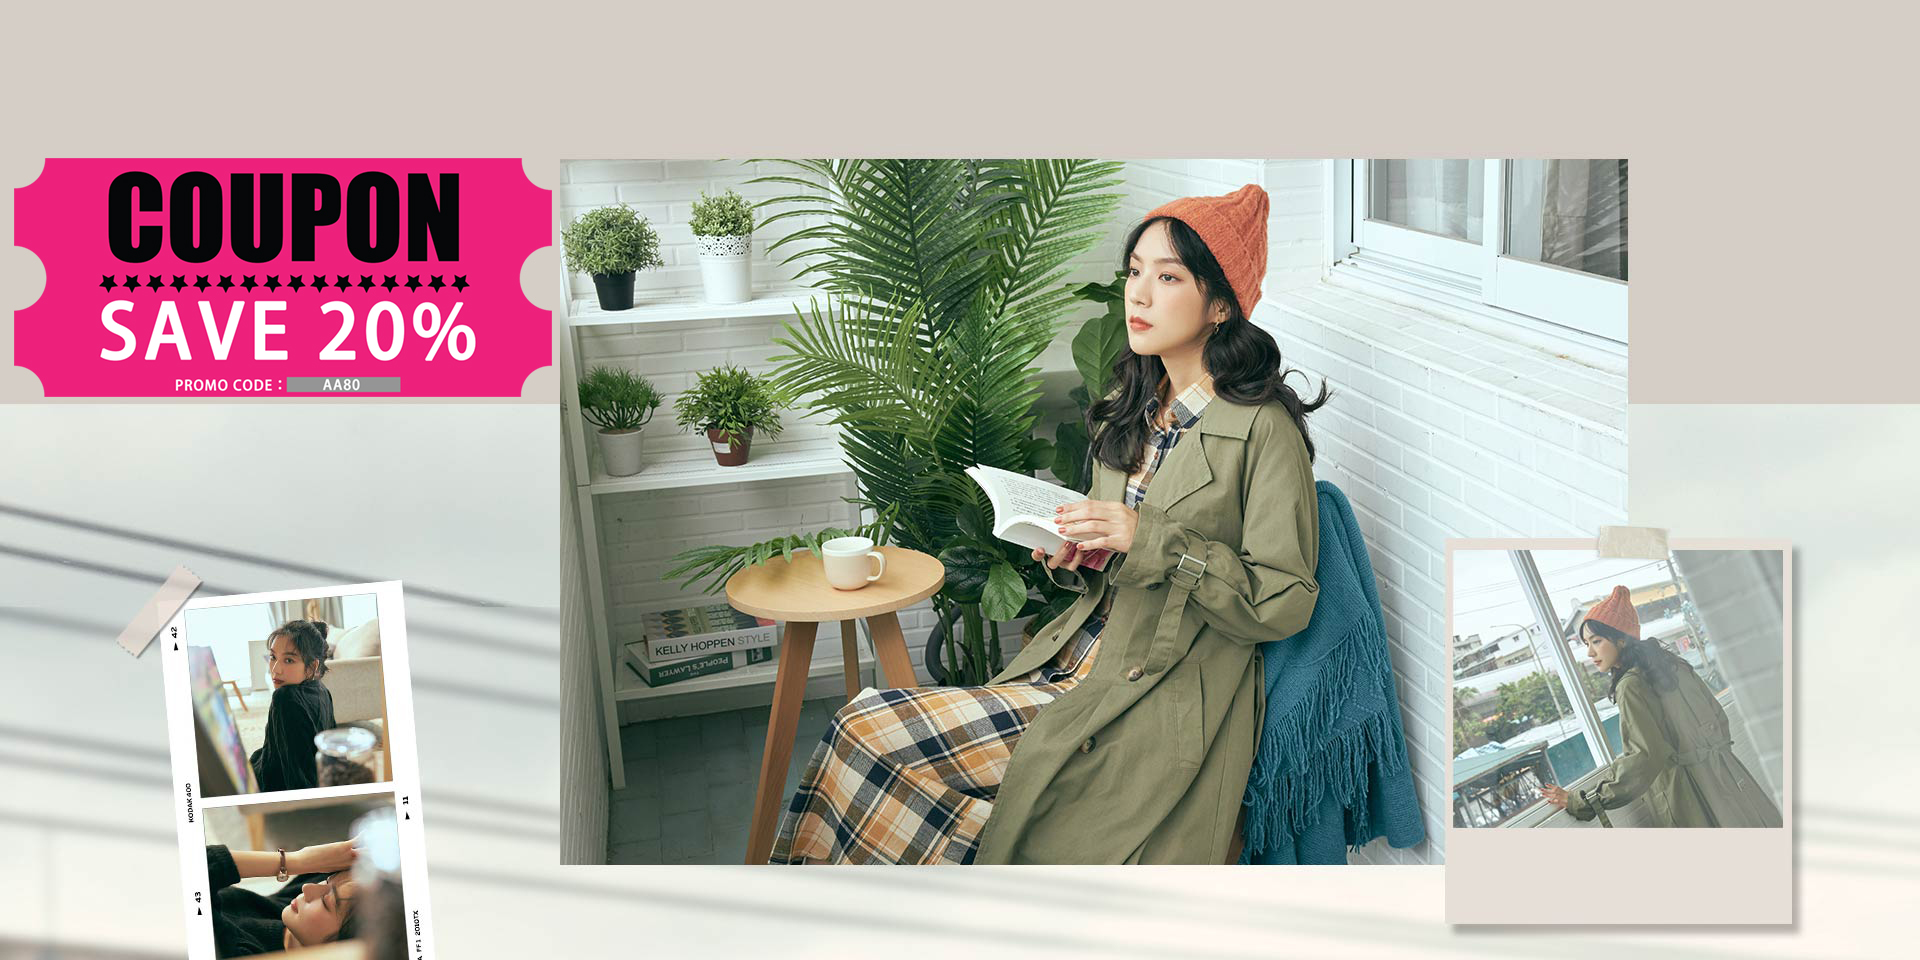
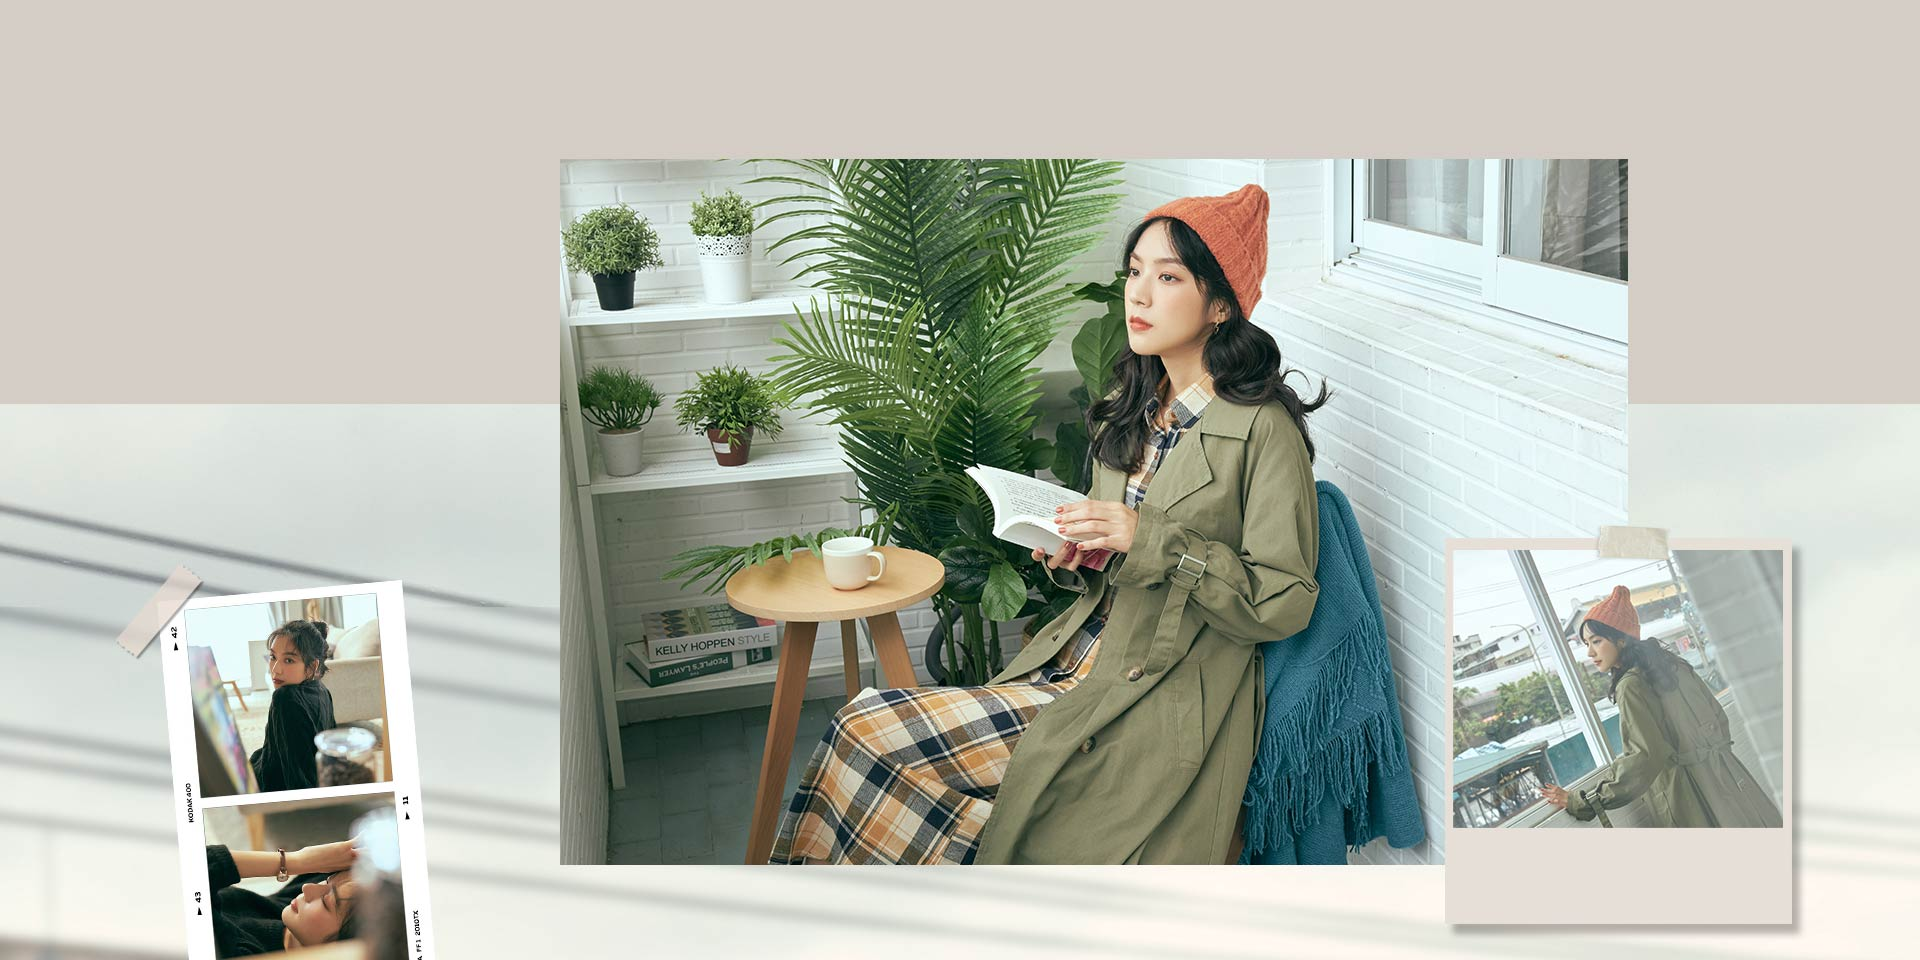
新增coupon活動

Changed region(s): [[0.0, 0.1562, 0.3125, 0.4375]]

diff --git a/src/components/front/FrontHome.vue b/src/components/front/FrontHome.vue
@@ -25,6 +25,9 @@
             </div>
         </div>
         <div class="home-banner1">
+          <img src="~@/assets/calendar/Coupon.jpg">
+        </div>
+        <div class="home-banner1">
             <router-link href="#" to="/girls_unique">
                 <img src="~@/assets/calendar/B1.jpg">
             </router-link>
